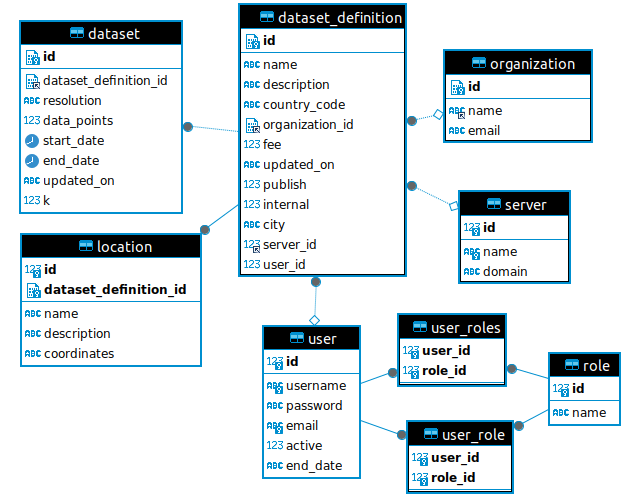
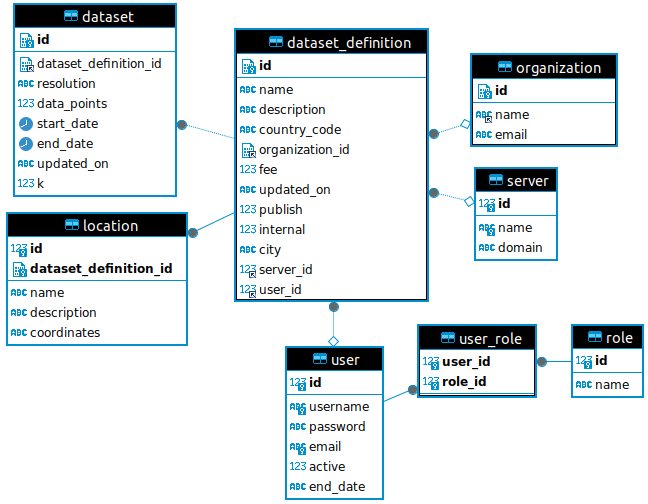
Update db diagram

Changed region(s): [[0.0, 0.0, 1.0, 1.0], [0.697, 0.3293, 0.9091, 0.5689]]

diff --git a/Mobility/src/main/java/com/utipdam/mobility/model/entity/User.java b/Mobility/src/main/java/com/utipdam/mobility/model/entity/User.java
@@ -37,7 +37,7 @@ public class User {
     private String password;
 
     @ManyToMany(fetch = FetchType.EAGER)
-    @JoinTable(  name = "user_roles",
+    @JoinTable(  name = "user_role",
             joinColumns = @JoinColumn(name = "user_id"),
             inverseJoinColumns = @JoinColumn(name = "role_id"))
     private Set<Role> roles = new HashSet<>();
